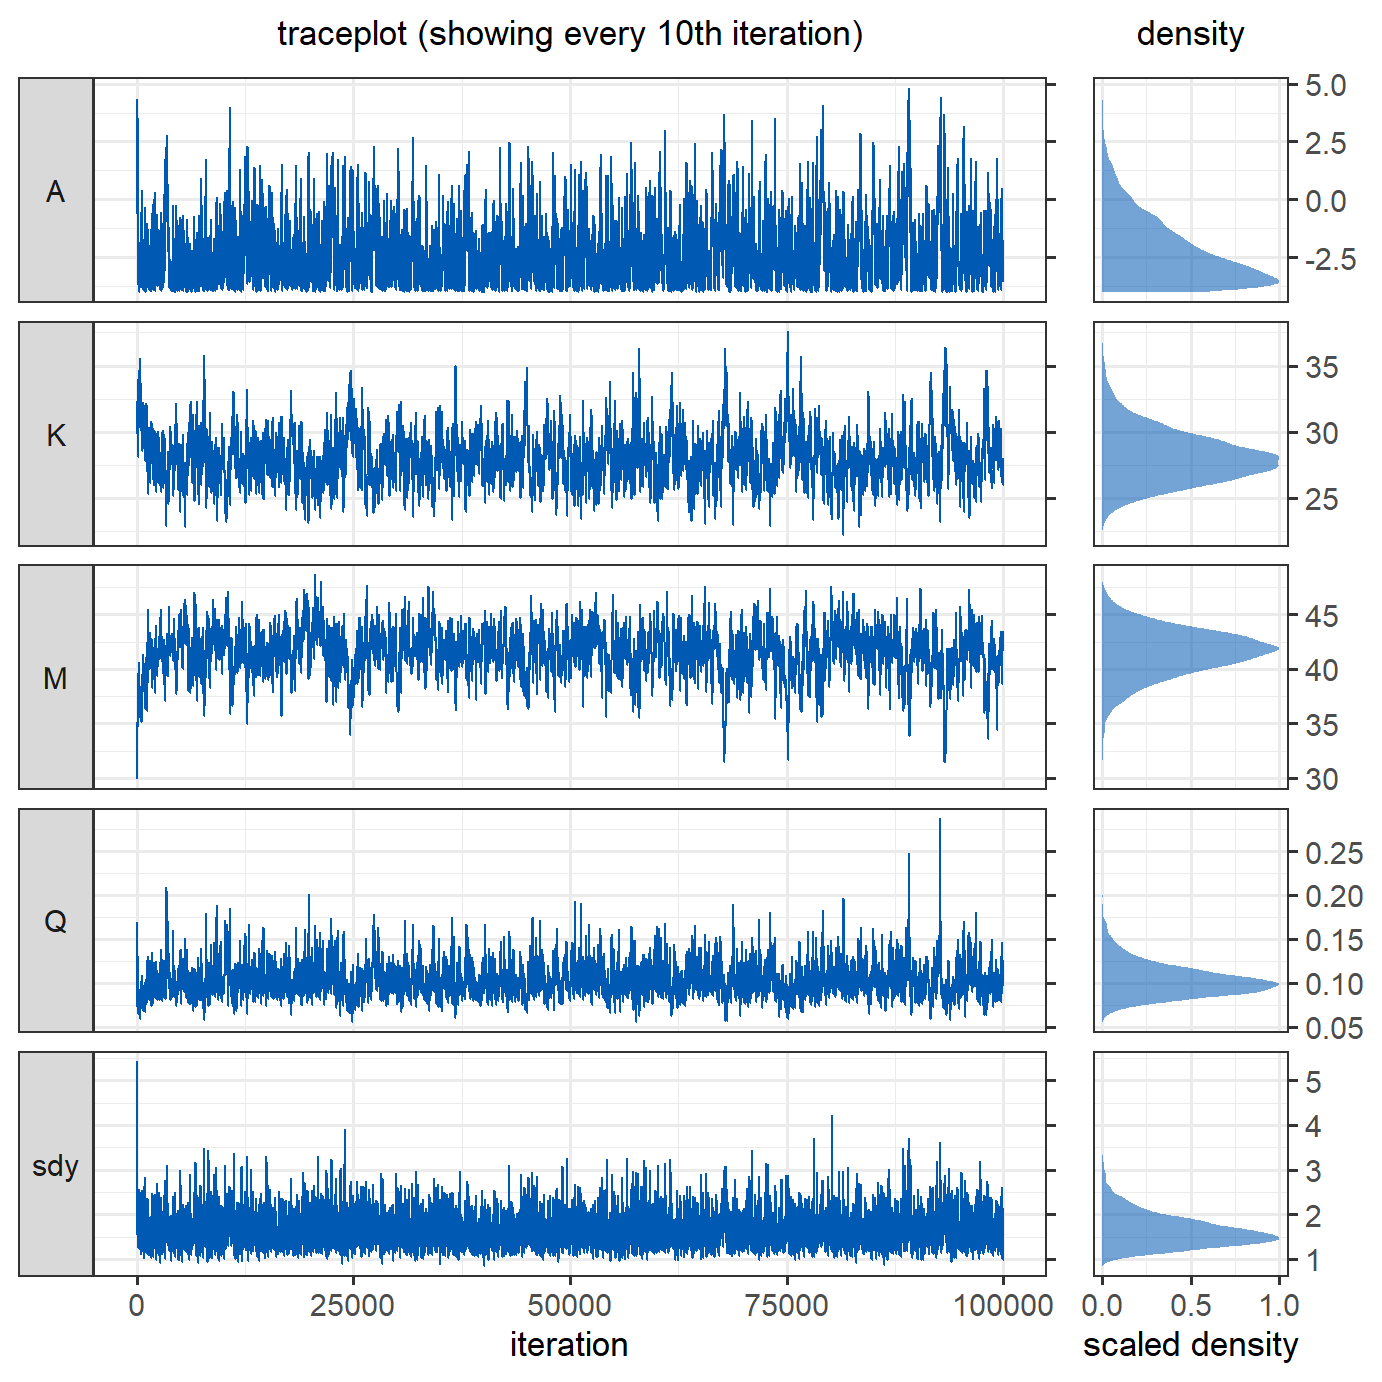
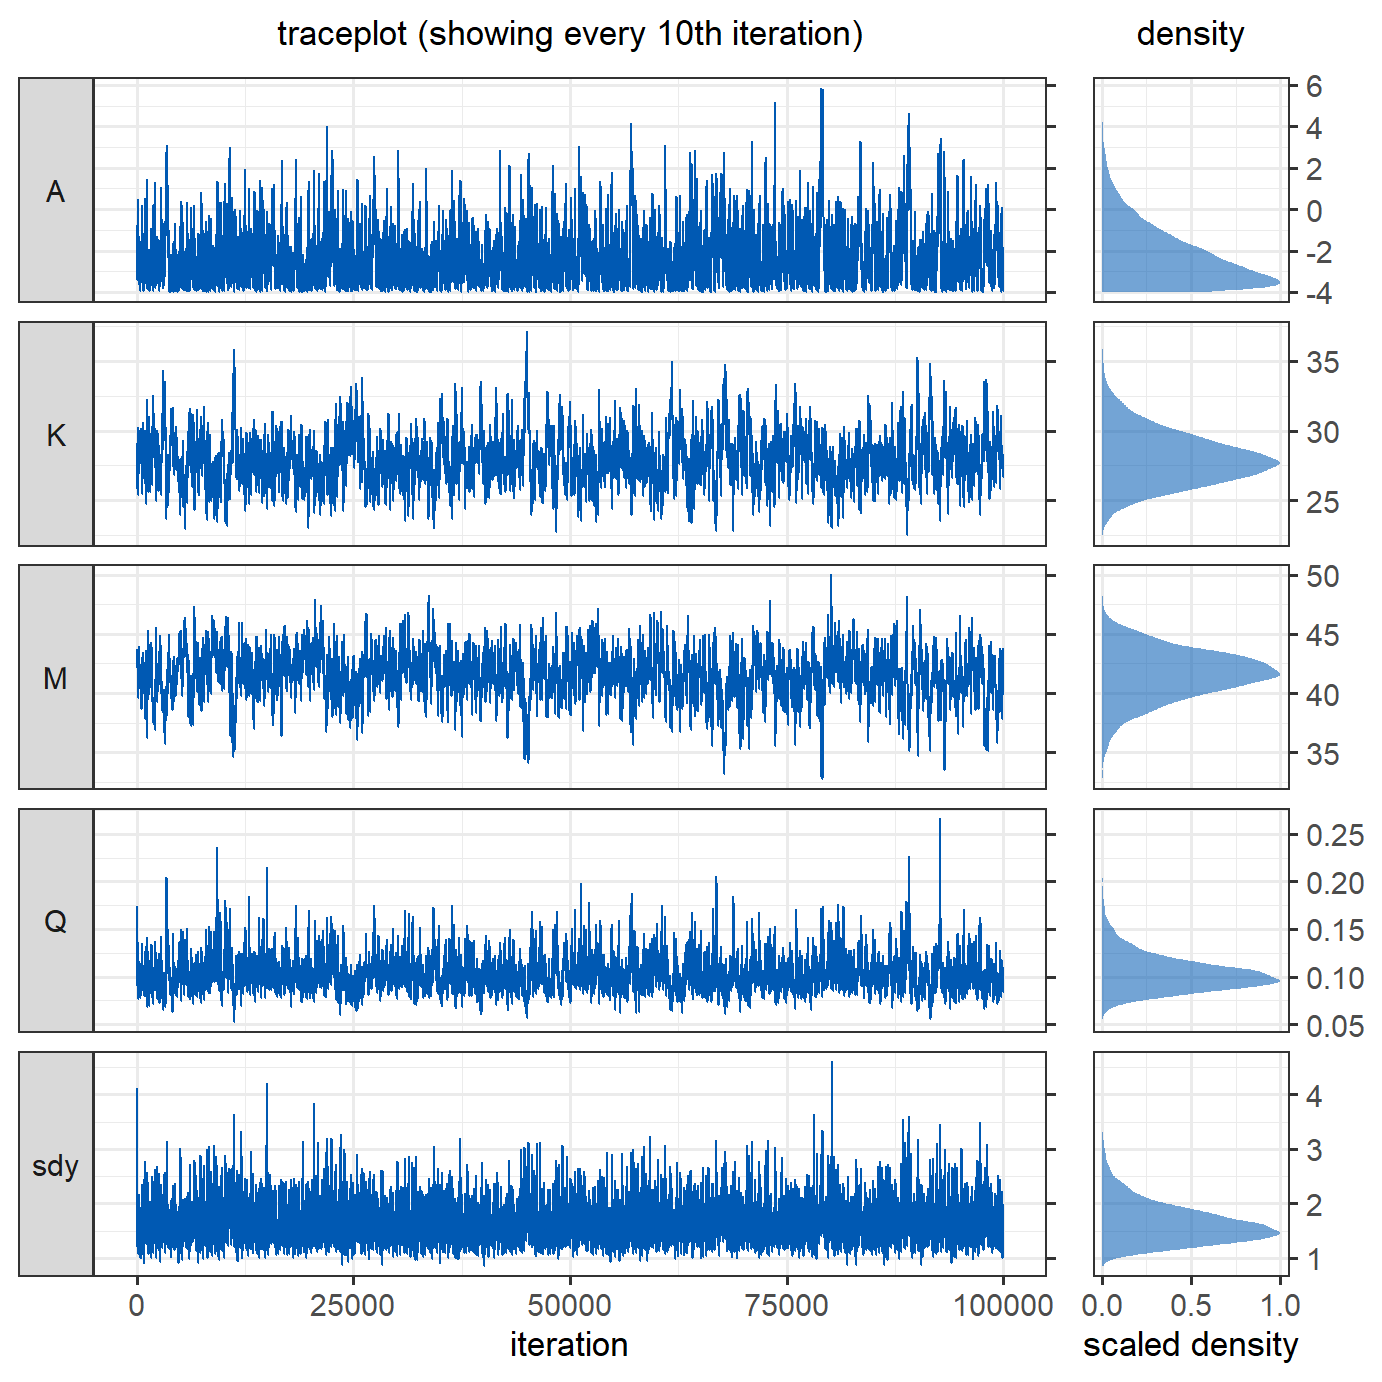
update Metropolis algorithm post

diff --git a/content/post/2022-02-12-metropolis-hastings-within-gibbs-sampling-for-latitudinal-temperature-gradients/index.en.html b/content/post/2022-02-12-metropolis-hastings-within-gibbs-sampling-for-latitudinal-temperature-gradients/index.en.html
@@ -1,8 +1,8 @@
 ---
-title: "Metropolis algorithm in R - Latitudinal temperature gradients"
+title: "A Metropolis algorithm in R - Part 1: Generalised logistic function"
 author: "Kilian Eichenseer"
 date: '2022-02-12'
-slug: metropolis-algorithm-in-R-latitudinal-temperature-gradients
+slug: metropolis-algorithm-in-R-part-1-generalised-logistic-function
 categories: []
 tags: []
 subtitle: ''
@@ -15,7 +15,7 @@ image:
   preview_only: true
 projects: []
 header-includes: \usepackage{graphics}
-summary: Reconstructing climate gradients from only a handful of data points is a challenge ideally suited for Bayesian modelling. Here, I build a Metropolis algorithm in R and use it to estimate a generalised logistic function.
+summary: The Metropolis algorithm is a simple, but powerful MCMC method. Here, I use it for estimating a generalised logistic function to reconstruct a latitudinal climate gradient from a small sample of temperature estimates.
 ---
 
 <script src="{{< blogdown/postref >}}index.en_files/header-attrs/header-attrs.js"></script>
@@ -59,7 +59,7 @@ pre {
 <p><em>The model presented herein uses modified code from <a href="https://khayatrayen.github.io/MCMC.html" class="uri">https://khayatrayen.github.io/MCMC.html</a>. I am currently developing a Metropolis-within-Gibbs algorithm for stratigraphic correlation of <span class="math inline">\(\delta\)</span><sup>13</sup>C records with Andrew R. Millard and Martin R. Smith at the <a href="https://smithlabdurham.github.io/#!team">Smith Lab at Durham University</a>.</em></p>
 <p>Latitudinal temperature gradients from Earth history are difficult to reconstruct due to the <a href="https://www.lewisajones.com/post/uneven-spatial-sampling-and-reconstructing-global-palaeotemperatures/">sparse and geographically variable sampling of proxy data in most geological intervals</a>. To reconstruct plausible temperature gradients from a fragmentary proxy record, classical solutions like LOESS or standard generalised additive models are not optimal, as earth scientists have additional information on past temperature gradients that those models do not incorporate. Instead, I propose the use of a generalised logistic function (a modified <a href="https://www.jstor.org/stable/23686557?seq=1#metadata_info_tab_contents">Richard’s curve</a>) that can readily incorporate information in addition to the proxy data. For example, we can instruct the model to force temperature to continuously decrease from the tropics toward the poles.</p>
 <p>To keep with the familiar notation in regression models, we set denote latitude as <span class="math inline">\(x\)</span> and temperature as <span class="math inline">\(y\)</span>. Temperature is modelled as a function of latitude as:</p>
-<p><span class="math inline">\(\begin{aligned} \begin{equation} \begin{array}{l} y_i \sim N(\mu_i, \sigma), ~~\\ \mu_i = A~+max(K-A,0)/(\nu\ e^{Q(x_i-M)^{\frac{1}{\nu}}}), ~~~~~ i = 1,...,n. \end{array} \end{equation} \end{aligned}\)</span></p>
+<p><span class="math inline">\(\begin{aligned} \begin{equation} \begin{array}{l} y_i \sim N(\mu_i, \sigma), ~~\\ \mu_i = A~+max(K-A,0)/(e^{Q(x_i-M)}), ~~~~~ i = 1,...,n. \end{array} \end{equation} \end{aligned}\)</span></p>
 <p><span class="math inline">\(A\)</span> is the lower asymptote, <span class="math inline">\(K\)</span> is the upper asymptote, <span class="math inline">\(M\)</span> is the inflection point, i.e. the steepest point of the curve, and <span class="math inline">\(Q\)</span> controls the steepness of the curve. The difference <span class="math inline">\(K-A\)</span> is constrained to be <span class="math inline">\(\ge 0\)</span> to preclude inverse temperature gradients.</p>
 <p>In R code, we turn this into a function named <span class="math inline">\(gradient\)</span>:</p>
 <pre class="r"><code>gradient &lt;- function(x, coeff, sdy) { # sigma is labelled &quot;sdy&quot;
@@ -88,7 +88,7 @@ sample_data &lt;- data.frame(
   pred = A + max(c(K-A,0))/((1+(exp(Q*(x-M)))))
   return(sum(dnorm(y, mean = pred, sd = sdy, log = TRUE)))
 }</code></pre>
-<p>Next, we need a function to generate the log-priors, i.e. the joint prior probability of the set of model parameters. We specify the parameters of the prior distribution within the function for convenience. Uniform priors ranging from <span class="math inline">\(-4\)</span> to <span class="math inline">\(40\)</span> are put on <span class="math inline">\(A\)</span> and <span class="math inline">\(K\)</span>, signifying that the temperature gradient cannot exceed this range. A normal prior with a mean of <span class="math inline">\(45\)</span> and a standard deviation of <span class="math inline">\(10\)</span> is placed on <span class="math inline">\(M\)</span>, implying that we expect the steepest temperature gradient in the mid-latitudes, but the data will quickly overwhelm the prior due to the large standard deviation. We constrain <span class="math inline">\(Q\)</span> and <span class="math inline">\(\nu\)</span> to be <span class="math inline">\(&gt;0\)</span> by placing Gamma priors on them:</p>
+<p>Next, we need a function to generate the log-priors, i.e. the joint prior probability of the set of model parameters. We specify the parameters of the prior distribution within the function for convenience. Uniform priors ranging from <span class="math inline">\(-4\)</span> to <span class="math inline">\(40\)</span> are put on <span class="math inline">\(A\)</span> and <span class="math inline">\(K\)</span>, signifying that the temperature gradient cannot exceed this range. A normal prior with a mean of <span class="math inline">\(45\)</span> and a standard deviation of <span class="math inline">\(10\)</span> is placed on <span class="math inline">\(M\)</span>, implying that we expect the steepest temperature gradient in the mid-latitudes. We constrain <span class="math inline">\(Q\)</span> to be <span class="math inline">\(&gt;0\)</span> by placing a log-normal prior on it:</p>
 <pre class="r"><code>logprior &lt;- function(coeff) {
   return(sum(c(
     dunif(coeff[1], -4, 40, log = TRUE),
@@ -149,11 +149,11 @@ sample_data &lt;- data.frame(
 <p>To run the model, we need to provide starting values for the unknown parameters. We let it run for <span class="math inline">\(100,000\)</span> iterations:</p>
 <pre class="r"><code>nIter &lt;- 100000
 m &lt;- run_MCMC(x = sample_data$x, y = sample_data$y, 
-              coeff_inits = c(0,30,30,0.2), sdy_init = 4, nIter = nIter)</code></pre>
+              coeff_inits = c(0,30,45,0.2), sdy_init = 4, nIter = nIter)</code></pre>
 <p>To assess the model output, we produce trace plots and density plots of the posterior estimates of the parameters. For the trace plot, only every <span class="math inline">\(10^{th}\)</span> iteration is shown to improve readability. The black lines in the density plot denote the parameters of the original sea surface temperature gradient.
 <img src="{{< blogdown/postref >}}index.en_files/figure-html/unnamed-chunk-10-1.png" width="691.2" />
 The parameters have converged reasonably well.</p>
 <p>Below, we discard the first <span class="math inline">\(10,000\)</span> iterations as burn-in and plot <span class="math inline">\(8\)</span> gradients, using different samples from the posterior (blue lines, lefthand plot). As expected, they fit nicely to the <span class="math inline">\(10\)</span> sampled data points (grey dots). They are also quite similar to the original gradient (black, dashed line). To the right, the estimated temperature gradient using the median of the parameters from the posterior (blue line), and <span class="math inline">\(95\%\)</span> credible intervals (blue shading), are shown. Between <span class="math inline">\(10^\circ\)</span> and <span class="math inline">\(50^\circ\)</span>, where we have sufficient samples, the estimated gradient very closely resembles the original gradient. The constraints imposed by the priors ensure that the estimated sea surface temperature gradients stays in a realistic range (<span class="math inline">\(&gt;-4^\circ C\)</span>), even at latitudes <span class="math inline">\(&gt; 63^\circ\)</span> where we have no data.</p>
 <p><img src="{{< blogdown/postref >}}index.en_files/figure-html/unnamed-chunk-11-1.png" width="864" />
 In conclusion, the model seems to be doing a good job in estimating a sensible temperature gradient from sparse samples. In the second part of this series, we will implement adaption of <span class="math inline">\(\sigma_{proposal}\)</span>, which means we won’t have to guess good values for <span class="math inline">\(\sigma_{proposal}\)</span>. This should speed up convergence, meaning we will need less iterations of the MCMC algorithm to obtain reliable posterior estimates.</p>
-<p>You can find the full R code to reproduce all analyses and figures on <a href="https://github.com/KEichenseer/Methods/blob/e4a68c48fd039bc03e56558ca981f0109b914891/A_Metropolis-Hastings_algorithm_for_estimating_Latitudinal_Temperature_Gradients.R">Github</a>.</p>
+<p>You can find the full R code to reproduce all analyses and figures on <a href="https://github.com/KEichenseer/Methods/blob/main/A_Metropolis_algorithm_in_R_generalised_logistic_function.R">Github</a>.</p>
